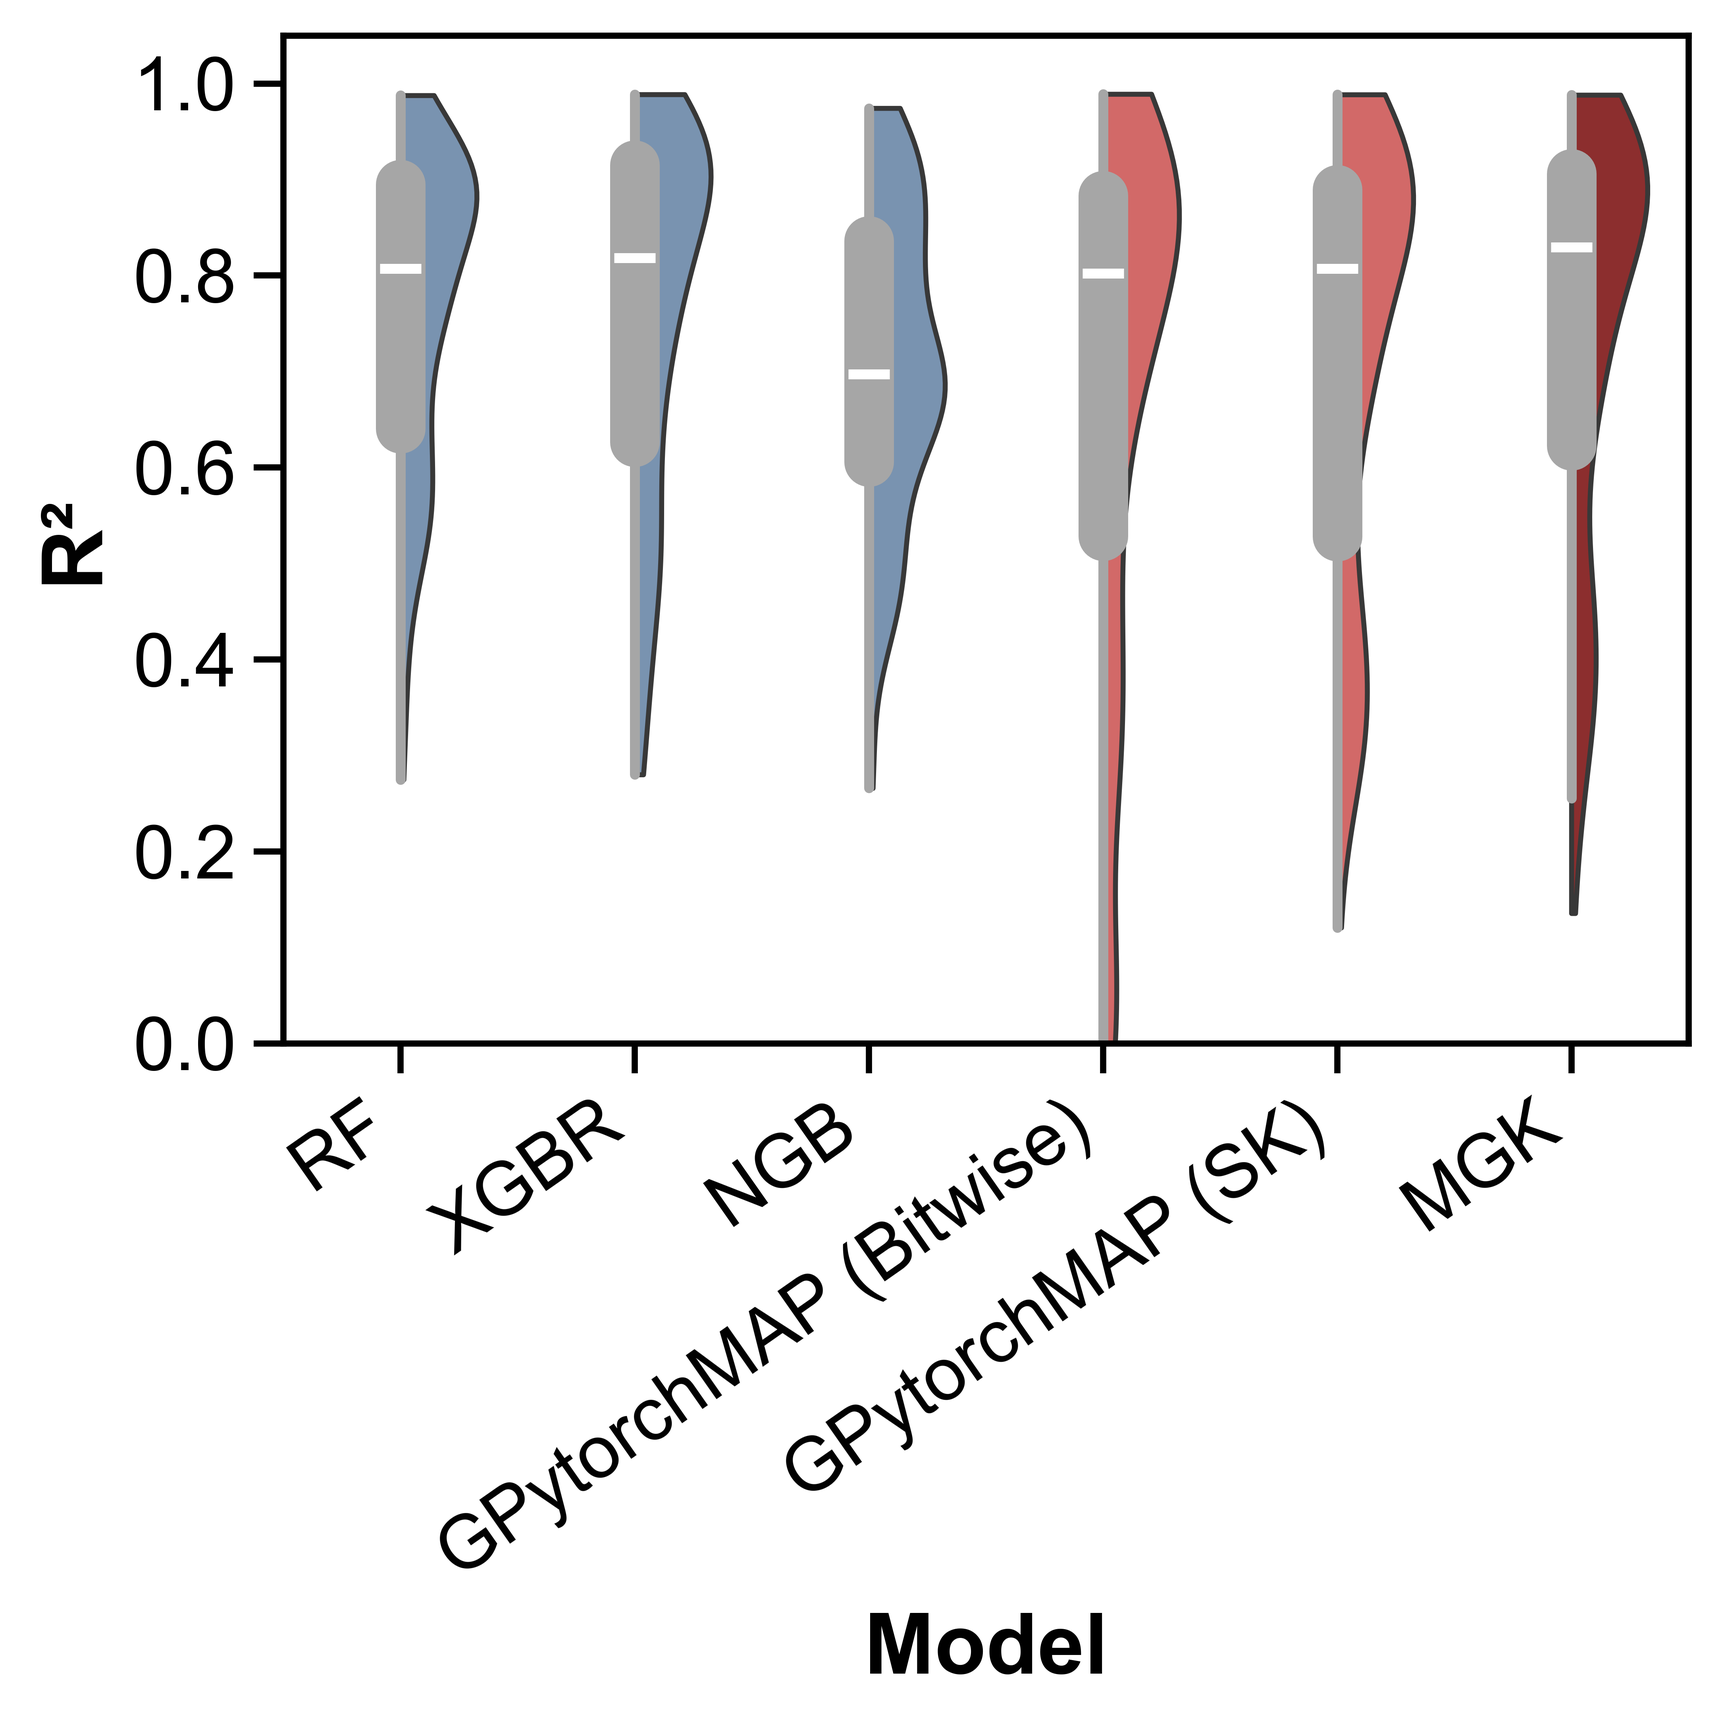
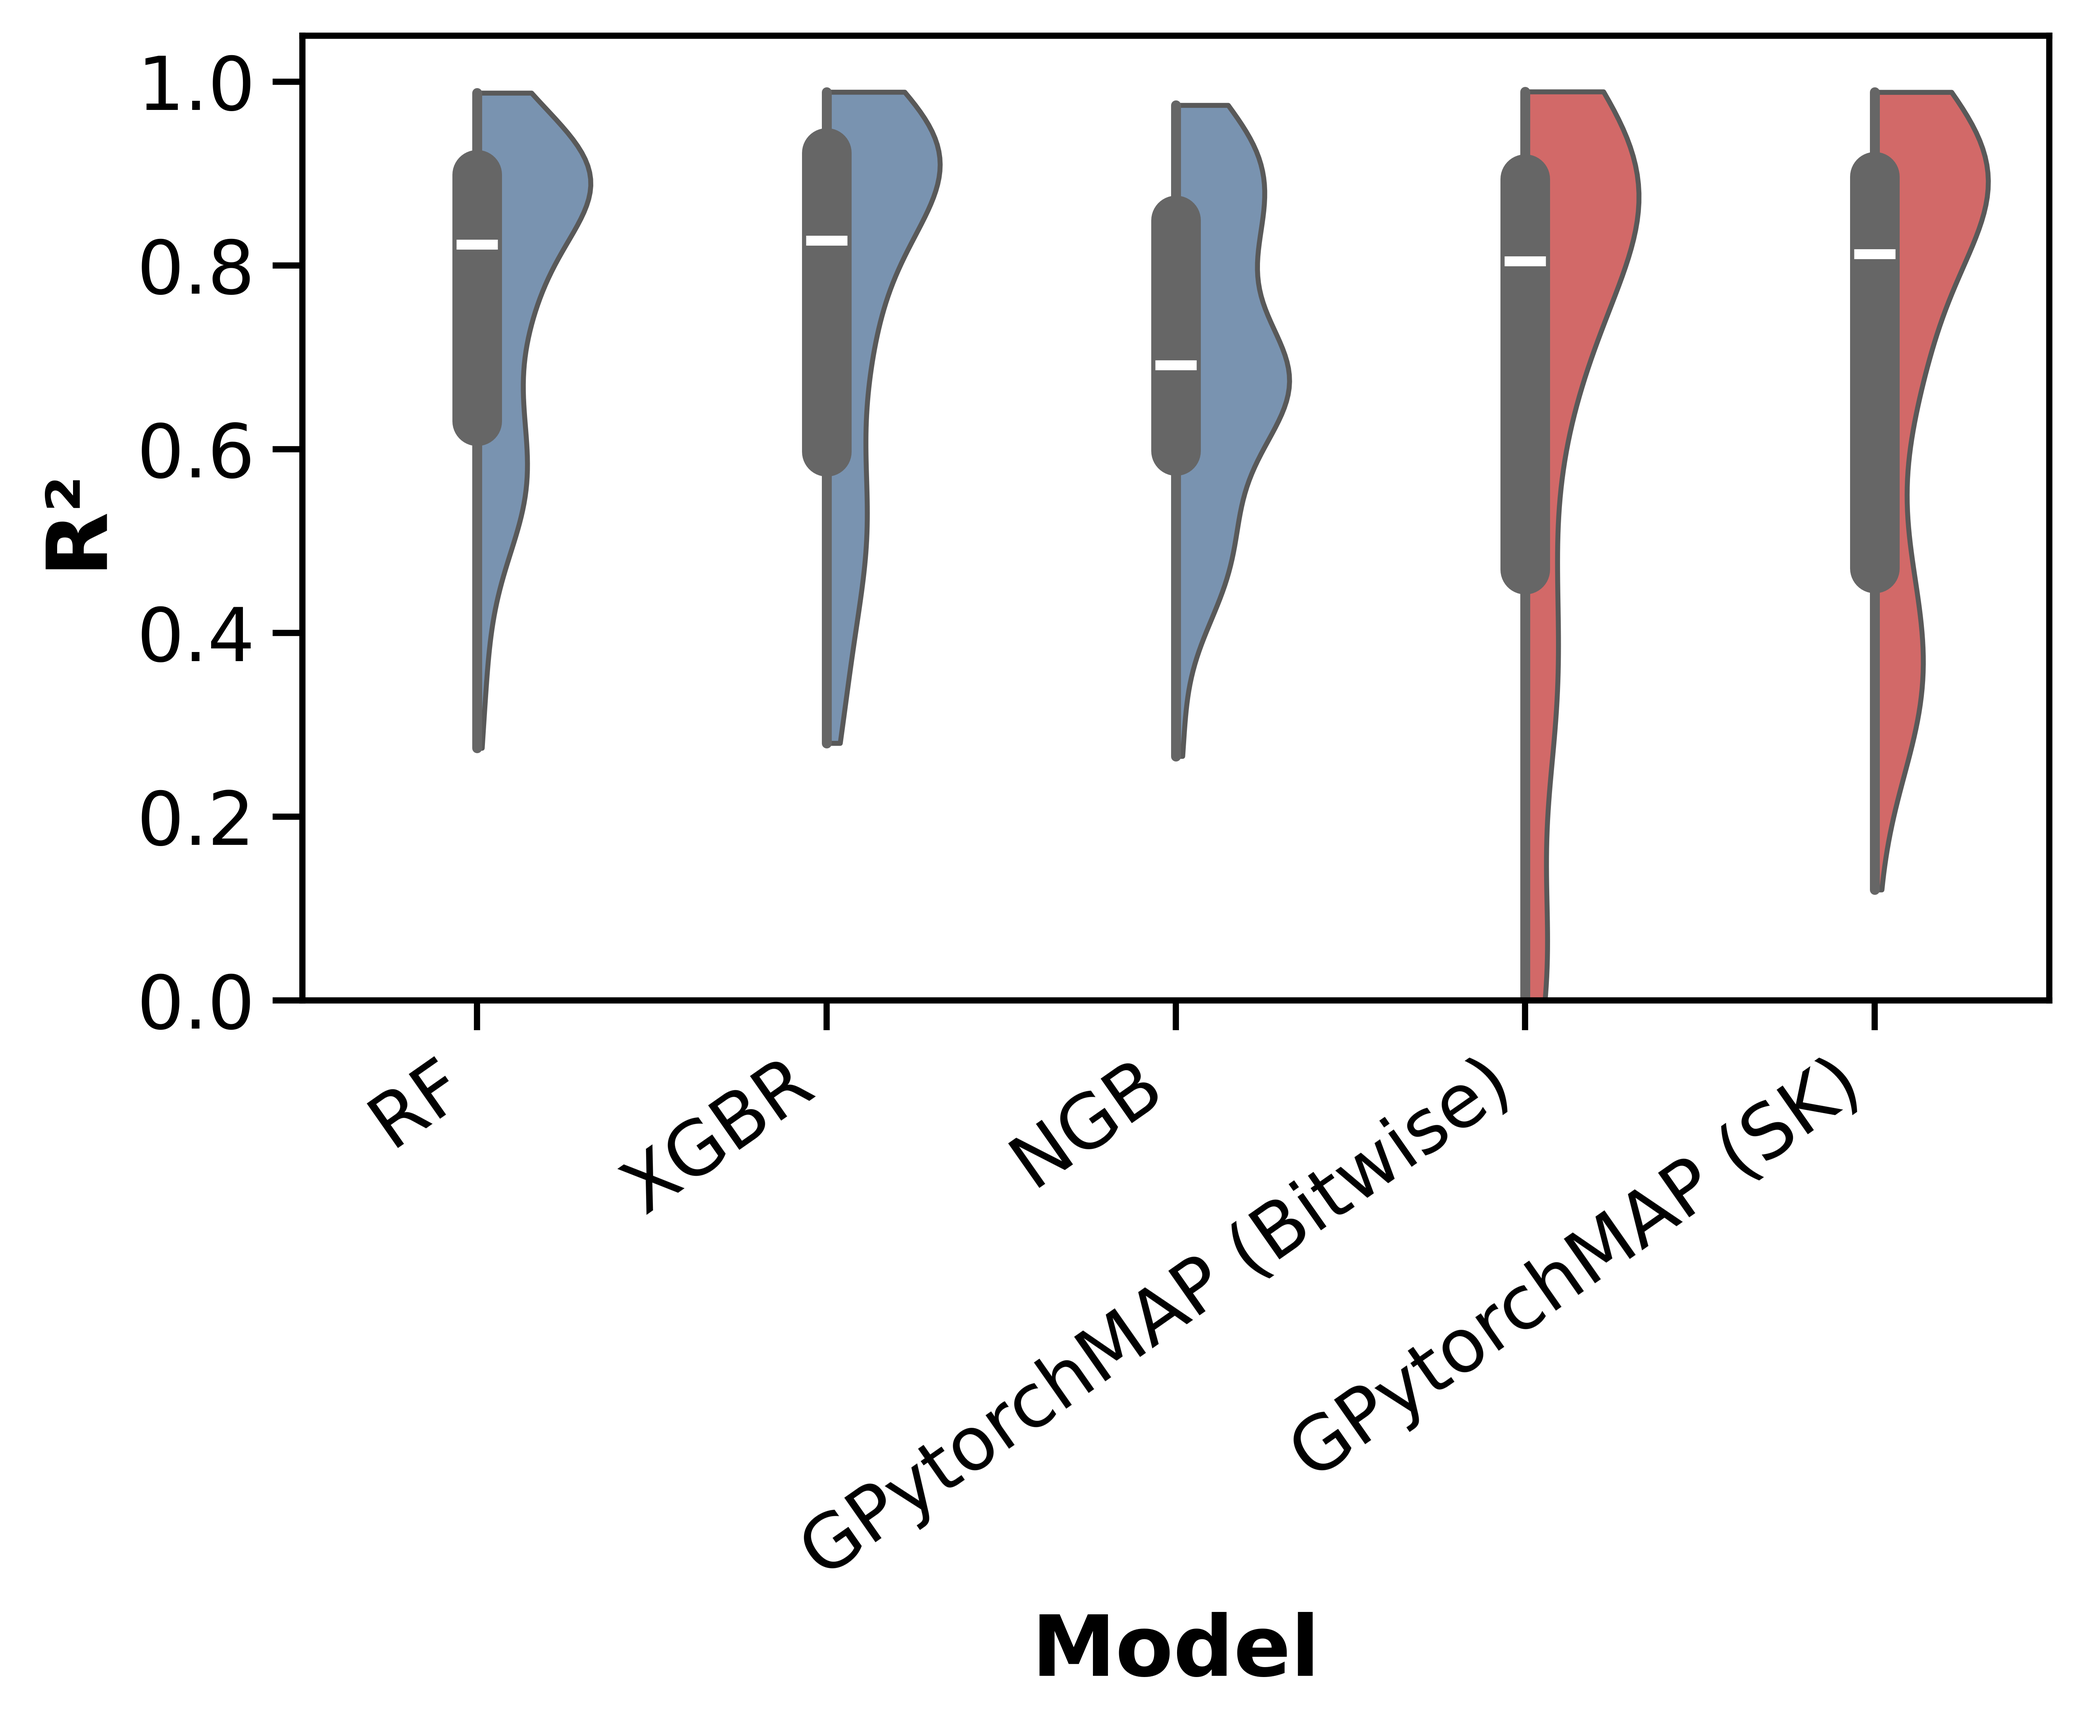
updated

diff --git a/code_python/visualization/visualize_gp.py b/code_python/visualization/visualize_gp.py
@@ -1537,7 +1537,7 @@ def plot_model_comparison(
         ax=ax,
         width=0.65,
         palette=violin_palette,
-        inner_kws=dict(box_width=10, whis_width=2, color=".65",solid_capstyle="round"),
+        inner_kws=dict(box_width=10, whis_width=2, color=".4",solid_capstyle="round"),
         cut=0,
         linewidth=1,
         dodge=False,
@@ -2342,8 +2342,9 @@ def plot_hybridization_profile_comparison(
 
     plot_df["hybridization method"] = plot_df["mixing method"].map(
         lambda method: _mixing_method_label(method)
-        .replace("ΣF", "F")
-        .replace("ΠF", "F")
+        .replace("Av(C) × F", "ΣC × FP")
+        .replace("ΣF", "FP")
+        .replace("ΠF", "FP")
     )
     selected_models = _selection_values(model)
     include_model = selected_models is None or len(selected_models) > 1
@@ -5004,24 +5005,24 @@ if __name__ == "__main__":
     # )
 
     
-    # plot_model_comparison(
-    #     df=result_df,
-    #     metric="OOF_cvpp_ama",
-    #     model=["RF", "XGBR","NGB","GPytorchMAP", "GpyroHMC","MGK"],
-    #     kernel_triples=[
-    #         ("Matern32", "Matern32", "product"),
-    #         ("TanimotoMatern32", "Matern32", "product"),
-    #         ("Graph", "Matern32", "product"),
-    #         ],
-    #     y_label="AMA",
-    #     fontsize=17,
-    #     show=True,
-    #     y_lim=(0,.6),
-    #     figsize=(6, 5),
-    #     # log_y=True,
-    #     save_dir=HERE / "result_analysis",
-    #     file_name="OOF_AMA_distributional_model_comparison.png",
-    # )
+    plot_model_comparison(
+        df=result_df,
+        metric="r2",
+        model=["RF", "XGBR","NGB","GPytorchMAP"],
+        kernel_triples=[
+            ("Matern32", "Matern32", "product"),
+            ("TanimotoMatern32", "Matern32", "product"),
+            ("Graph", "Matern32", "product"),
+            ],
+        y_label="R²",
+        fontsize=17,
+        show=True,
+        y_lim=(0,1.05),
+        figsize=(6, 5),
+        # log_y=True,
+        save_dir=HERE / "result_analysis",
+        file_name="r2_distributional_model_comparison.png",
+    )
 
     # plot_hybridization_method_comparison(
     #     df=result_df,
@@ -5050,23 +5051,26 @@ if __name__ == "__main__":
     #     file_name="r2_GPytorchMAP_SK_hybridization_profile_comparison_avg_over_config.png",
     # )
 
-    plot_hybridization_profile_comparison(
-    df=result_df,
-    model="GPytorchMAP",
-    fp_kernels=["TanimotoMatern32"],
-    count_kernels=["Matern32"],
-    mixing_methods=[
-    "sum","product",    
-    "(count:+)x(fp:x)",
-    # "(count:+)x(fp:+)",
-    "(count:x)+(fp:x)"],
-    metric="r2",
-    y_label="Profile AUC of R²",
-    fontsize=17,
-    figsize=(5, 5),
-    save_dir=HERE / "result_analysis"/"performance_profile"/"hybridization_comparison",
-    file_name="r2_GPytorchMAP_SK_TanimotoMatern32_Matern32.png",
-    )
+    # plot_hybridization_profile_comparison(
+    # df=result_df,
+    # model="GPytorchMAP",
+    # fp_kernels=["TanimotoRBF","TanimotoMatern32", "TanimotoMatern52", "Tanimoto"],
+    # count_kernels=["RBF", "Matern32", "Matern52"],
+    # mixing_methods=[
+    # "sum",
+    # "product",
+    # "averageProduct",
+    # # "(count:+)x(fp:x)",
+    # # "(count:+)x(fp:+)",
+    # # "(count:x)+(fp:x)"
+    # ],
+    # metric="r2",
+    # y_label="Profile AUC of R²",
+    # fontsize=17,
+    # figsize=(5, 5),
+    # save_dir=HERE / "result_analysis"/"performance_profile"/"hybridization_comparison",
+    # file_name="r2_GPytorchMAP_SK_TanimotoMatern32_Matern32.png",
+    # )
 
     # plot_hybridization_performance_vs_data_number(
     #     df=result_df,
@@ -5104,6 +5108,25 @@ if __name__ == "__main__":
     #     file_name="OOF_R2_TOPSIS_GPytorchMAP_SK_hybridization_profile_comparison_avg_over_config.png",
     # )
     
+
+    # plot_model_profile_comparison(
+    #     df=result_df,
+    #     model=["RF", "XGBR", "NGB", "GPytorchMAP", "GpyroHMC"],
+    #     kernel_triples=[
+    #         ("Matern32", "Matern32", "averageProduct"),
+    #         ("TanimotoMatern32", "Matern32", "averageProduct"),
+    #         # ("Graph", "Matern32", "product"),
+    #     ],
+    #     metric="OOF_",
+    #     # tree_feature_importance=tree_fi,
+    #     y_label=f"Profile AUC: NLL",
+    #     fontsize=17,
+    #     figsize=(5, 5),
+    #     save_dir=HERE / "result_analysis"/"performance_profile"/"model_comparison",
+    #     file_name=f"NLL_model_profile_comparison.png",
+    # )
+
+
 
 
     # plot_model_performance_vs_data_number(
@@ -5207,14 +5230,14 @@ if __name__ == "__main__":
 
     # plot_model_performance_TOPSIS(
     #     df=result_df,
-    #     metrics=["OOF_R2", "OOF_cvpp_ama", "feature_stability"],
-    #     tree_feature_importance="SHAP",
-    #     criteria_weights=[.5, 0.2, 0.3],
-    #     criteria_types=[1, -1, 1],
+    #     metrics=["OOF_R2", "feature_stability"],
+    #     tree_feature_importance="MDI",
+    #     criteria_weights=[.6, 0.4],
+    #     criteria_types=[1, 1],
     #     model=["RF", "XGBR", "NGB", "GPytorchMAP", "GpyroHMC"],
     #     kernel_triples=[
-    #         ("TanimotoMatern32", "Matern32", "product"),
-    #         ("Matern32", "Matern32", "product"),
+    #         ("TanimotoMatern32", "Matern32", "averageProduct"),
+    #         ("Matern32", "Matern32", "averageProduct"),
     #         # ("Graph", "Matern32", "product")
     #     ],
     #     show=True,
@@ -5222,5 +5245,5 @@ if __name__ == "__main__":
     #     y_lim=(0, 1.1),
     #     figsize=(6, 5),
     #     save_dir=HERE / "result_analysis",
-    #     file_name=f"R2_AMA_feature_stability_SHAP_TOPSIS_comparison.png",
+    #     file_name=f"R2_feature_stability_MDI_TOPSIS_comparison.png",
     # )
